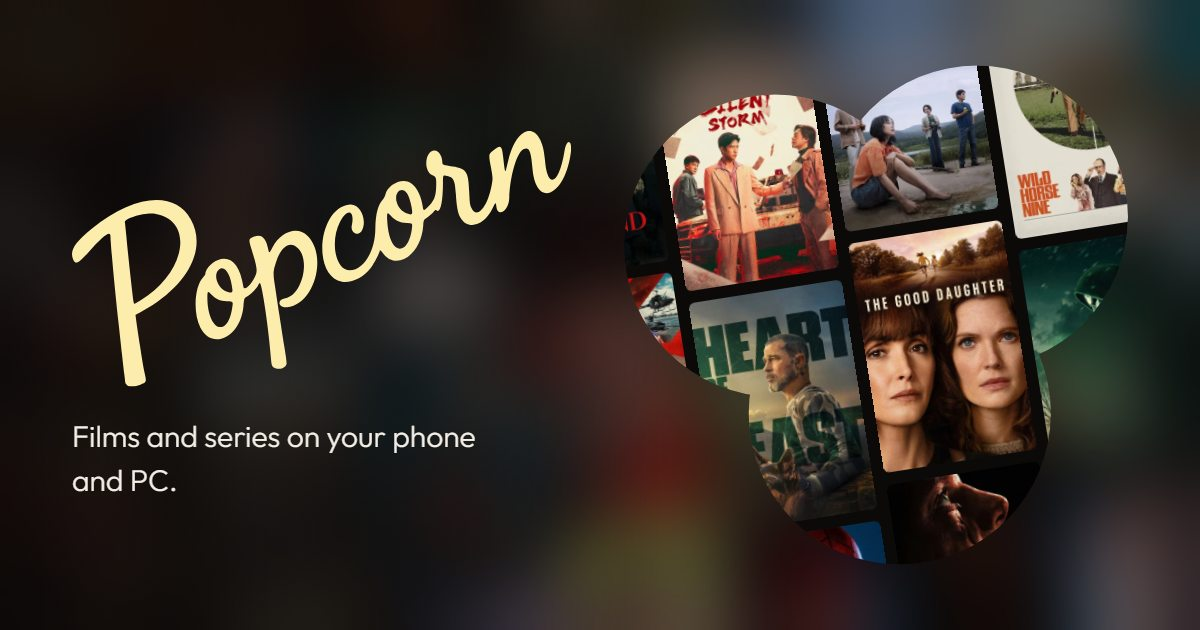
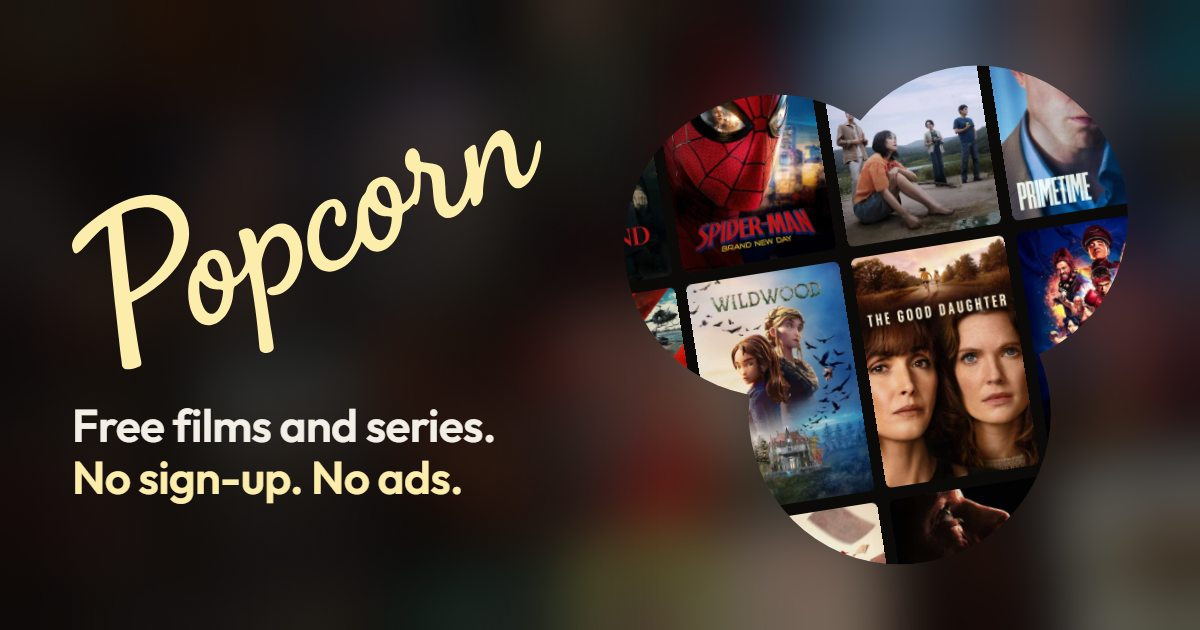
Website: lead with Free, no sign-up, no ads

diff --git a/docs/index.html b/docs/index.html
@@ -4,11 +4,11 @@
 <meta charset="utf-8">
 <meta name="viewport" content="width=device-width, initial-scale=1, viewport-fit=cover">
 <title>Popcorn</title>
-<meta name="description" content="Popcorn for Android and Windows. Films and series on your phone and PC, free to download.">
+<meta name="description" content="Free films and series on your phone and PC. No sign-up, no ads. Popcorn for Android and Windows.">
 <meta name="theme-color" content="#0b0a09">
 <meta name="color-scheme" content="dark">
 <meta property="og:title" content="Popcorn">
-<meta property="og:description" content="Films and series on your phone and PC. Free for Android and Windows.">
+<meta property="og:description" content="Free films and series on your phone and PC. No sign-up, no ads.">
 <meta property="og:type" content="website">
 <meta property="og:url" content="https://popcorn-organization.github.io/popcorn/">
 <meta property="og:image" content="https://popcorn-organization.github.io/popcorn/assets/share.jpg">
@@ -148,10 +148,20 @@
   }
   .marquee h1 { margin: 0; width: min(440px, 78vw, calc(46 * var(--vh))); }
   .marquee h1 img { width: 100%; }
-  .marquee p.line {
+  /* The pitch: the three things people ask first, big; cream on the second
+     line, the one that sets it apart. */
+  .marquee p.pitch {
     margin: 0;
-    font-size: clamp(18px, min(2.4vw, calc(3 * var(--vh))), 24px); line-height: 1.45; font-weight: 300;
-    max-width: 26em;
+    font-size: clamp(28px, min(3.6vw, calc(4.6 * var(--vh))), 44px);
+    line-height: 1.12; font-weight: 600; letter-spacing: -0.015em;
+    text-wrap: balance;
+  }
+  .marquee p.pitch span { display: block; color: var(--cream); }
+  .marquee p.line {
+    margin: 0; margin-top: calc(-0.6 * clamp(14px, calc(2.6 * var(--vh)), 28px));
+    font-size: clamp(17px, min(1.8vw, calc(2.6 * var(--vh))), 20px); line-height: 1.45; font-weight: 300;
+    color: var(--dim);
+    max-width: 30em;
   }
 
   /* Pills, as the app's own buttons: solid cream first, frosted glass second. */
@@ -178,6 +188,7 @@
   .ticket { font: 400 14px/1.5 var(--body); color: var(--dim); display: flex; flex-wrap: wrap; }
   .ticket span + span::before { content: "·"; margin: 0 9px; color: var(--dim); }
   .ticket b { color: var(--paper); font-weight: 500; }
+  .ticket:empty { display: none; }
 
   .tips { display: grid; gap: 6px; font-size: 15px; line-height: 1.45; color: var(--dim); max-width: 36em; }
   .tips span b { color: var(--cream); font-weight: 500; margin-right: 6px; }
@@ -210,8 +221,6 @@
     .marquee p.line { max-width: 24em; }
     .get { justify-content: center; width: 100%; }
     .ticket { justify-content: center; }
-    .ticket span:first-child { flex-basis: 100%; }
-    .ticket span:first-child + span::before { content: none; }
     .tips { justify-items: center; }
     .credits { justify-self: center; text-align: center; max-width: 36em; }
   }
@@ -230,7 +239,8 @@
   @media (orientation: portrait) and (max-height: 820px) {
     .lobby { --logo: min(72vw, calc(34 * var(--vh))); }
     .marquee h1 { width: min(190px, 48vw, calc(15 * var(--vh))); }
-    .marquee p.line { font-size: 16px; }
+    .marquee p.pitch { font-size: 25px; }
+    .marquee p.line { font-size: 15px; }
     .marquee p.line .more { display: none; }
     .get a { padding-block: 10px; }
     .tips { font-size: 13px; }
@@ -244,6 +254,7 @@
   }
   .marquee > .line { transition-delay: 0.15s; }
   .marquee > .get { transition-delay: 0.25s; }
+  .marquee > .pitch { transition-delay: 0.1s; }
   .marquee > .ticket, .marquee > .apple { transition-delay: 0.35s; }
   .marquee > .tips { transition-delay: 0.45s; }
   .credits { transition-delay: 0.55s; }
@@ -283,7 +294,8 @@
   <div class="marquee">
     <div class="slot" aria-hidden="true" data-slot></div>
     <h1><img src="assets/wordmark.svg" width="332" height="170" alt="Popcorn"></h1>
-    <p class="line">Films and series on your phone and PC. <span class="more">Pick something, press play, and it remembers where you stopped.</span></p>
+    <p class="pitch">Free films and series. <span>No sign-up. No ads.</span></p>
+    <p class="line">On your phone and PC<span class="more">, and it remembers where you stopped</span>.</p>
     <div class="get" data-get>
       <a class="first" data-os="android" href="https://github.com/popcorn-organization/popcorn/releases/latest/download/Popcorn-Android.apk">
         <svg><use href="#android"/></svg>
@@ -294,7 +306,7 @@
         <span>Get it for Windows<small data-size="windows">Windows 10 and 11</small></span>
       </a>
     </div>
-    <div class="ticket" data-ticket><span>Free</span><span>No account</span><span>No ads</span></div>
+    <div class="ticket" data-ticket></div>
     <p class="apple" data-apple hidden>Not available for iPhone or Mac yet.</p>
     <div class="tips">
       <span data-tip="android"><b>On Android:</b>Open the downloaded file. If asked, allow <em>install unknown apps</em>, then tap <em>Install</em>.</span>
